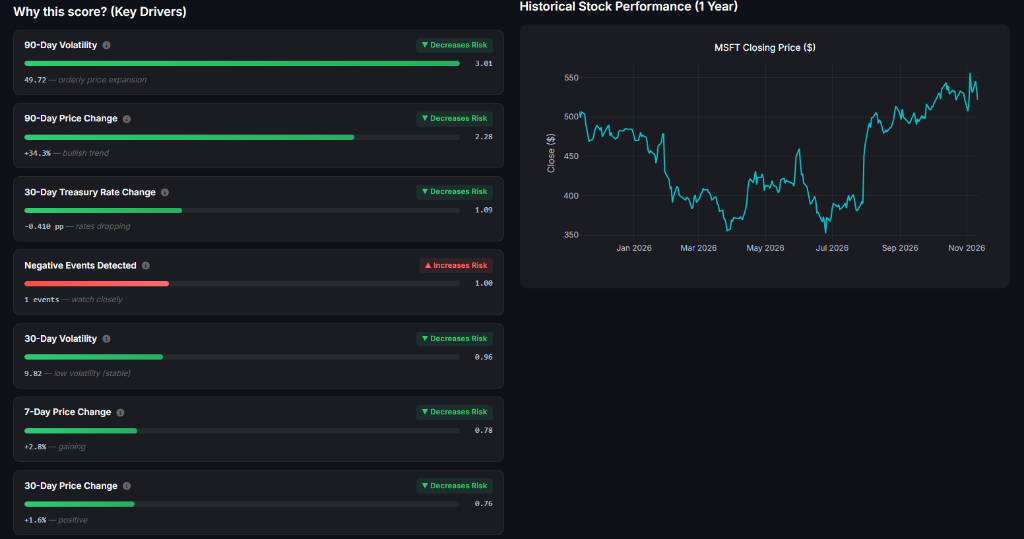
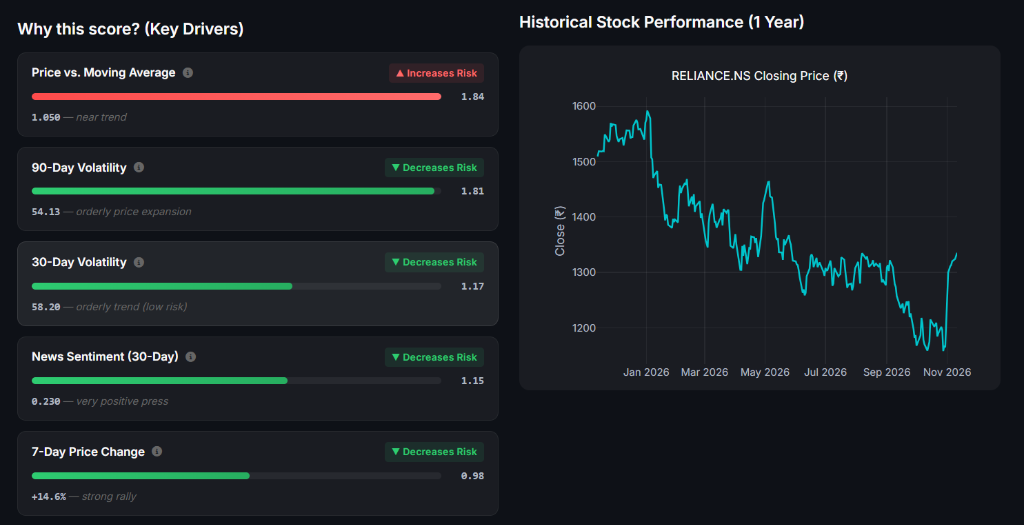
docs: update README with live deployment links and real-time dashboard screenshots

diff --git a/README.md b/README.md
@@ -16,8 +16,15 @@
 [![Docker](https://img.shields.io/badge/Docker-Ready-2496ED?style=flat&logo=docker&logoColor=white)](https://www.docker.com/)
 [![License: MIT](https://img.shields.io/badge/License-MIT-3DA639?style=flat&logo=opensourceinitiative&logoColor=white)](LICENSE)
 [![Tests](https://img.shields.io/badge/Tests-57%20Passed-2EA44F?style=flat&logo=pytest&logoColor=white)](tests/)
+[![Live App](https://img.shields.io/badge/Live%20App-Vercel%20Deployment-000000?style=flat&logo=vercel&logoColor=white)](https://multi-market-credit-risk.vercel.app)
+[![API Status](https://img.shields.io/badge/Render%20API-Active-46E3B7?style=flat&logo=render&logoColor=white)](https://credlens-api.onrender.com)
 
 *An institutional-grade credit risk scoring and solvency surveillance platform evaluating public equities across **US (NYSE / NASDAQ)** and **Indian (NSE / BSE)** markets in real time.*
+
+### 🚀 Live Deployments
+- 🌐 **Web Application (Vercel):** [https://multi-market-credit-risk.vercel.app](https://multi-market-credit-risk.vercel.app)
+- 🔌 **Production Backend API (Render):** [https://credlens-api.onrender.com](https://credlens-api.onrender.com)
+- 📖 **Interactive Swagger Docs:** [https://credlens-api.onrender.com/docs](https://credlens-api.onrender.com/docs)
 
 [Key Capabilities](#key-capabilities) • [Scoring Methodology](#hybrid-scoring-methodology) • [System Architecture](#system-architecture) • [Quickstart](#quickstart--installation) • [API Reference](#api-endpoints) • [Tech Stack](#tech-stack-breakdown)
 
@@ -32,8 +39,8 @@ Traditional credit rating agencies (S&P, Moody's, Fitch, CRISIL, ICRA) publish s
 **CredLens** bridges this gap. It combines **balance-sheet solvency fundamentals** with **structural credit models (Merton / KMV distance-to-default framework)**, **XGBoost machine learning**, **macroeconomic yield curves (FRED)**, and **real-time NLP news sentiment** to deliver an adaptive, continuous **CredLens Stability Score (0–100)** with fully transparent **SHAP explainability**.
 
 <div align="center">
-  <img src="assets/images/dashboard.png" alt="CredLens Real-time Analysis Scorecard & Key Drivers" width="95%" />
-  <p><em>Live Credit Scorecard, Sector Peer Benchmarking, Calibrated SHAP Key Drivers & Historical Performance</em></p>
+  <img src="assets/images/dashboard.png" alt="CredLens Real-time Analysis Scorecard for Reliance Industries Limited" width="95%" />
+  <p><em>Live Credit Scorecard, Sector Peer Benchmarking, Calibrated Stability Score (91 / CRISIL AAA)</em></p>
 </div>
 
 ---
@@ -68,6 +75,11 @@ Traditional credit rating agencies (S&P, Moody's, Fitch, CRISIL, ICRA) publish s
 ---
 
 ## Platform Interface
+
+| Live Analysis Scorecard & Benchmarking | Calibrated Key Drivers & 1-Year Performance |
+|:---:|:---:|
+| <img src="assets/images/dashboard.png" width="100%" alt="CredLens Real-time Analysis Scorecard" /> | <img src="assets/images/key_drivers.png" width="100%" alt="Calibrated SHAP Key Drivers & Historical Stock Performance" /> |
+| *Real-time credit scorecard, CRISIL/S&P rating & peer comparison* | *Economic SHAP attribution drivers with 1-year historical price chart* |
 
 | Dual-Market Landing & Catalog | Score History & NLP News Surveillance |
 |:---:|:---:|
